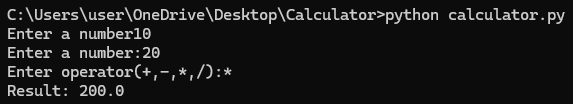
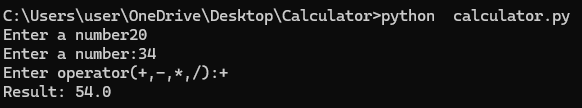
Added project screenshot

diff --git a/README.md b/README.md
@@ -9,6 +9,8 @@ A simple calculator application built using Python.
 - Multiplication
 - Division
 - Error handling for division by zero
+## Screenshot
+![Calculator](err3.png)
 
 ## Technologies Used
 - Python
